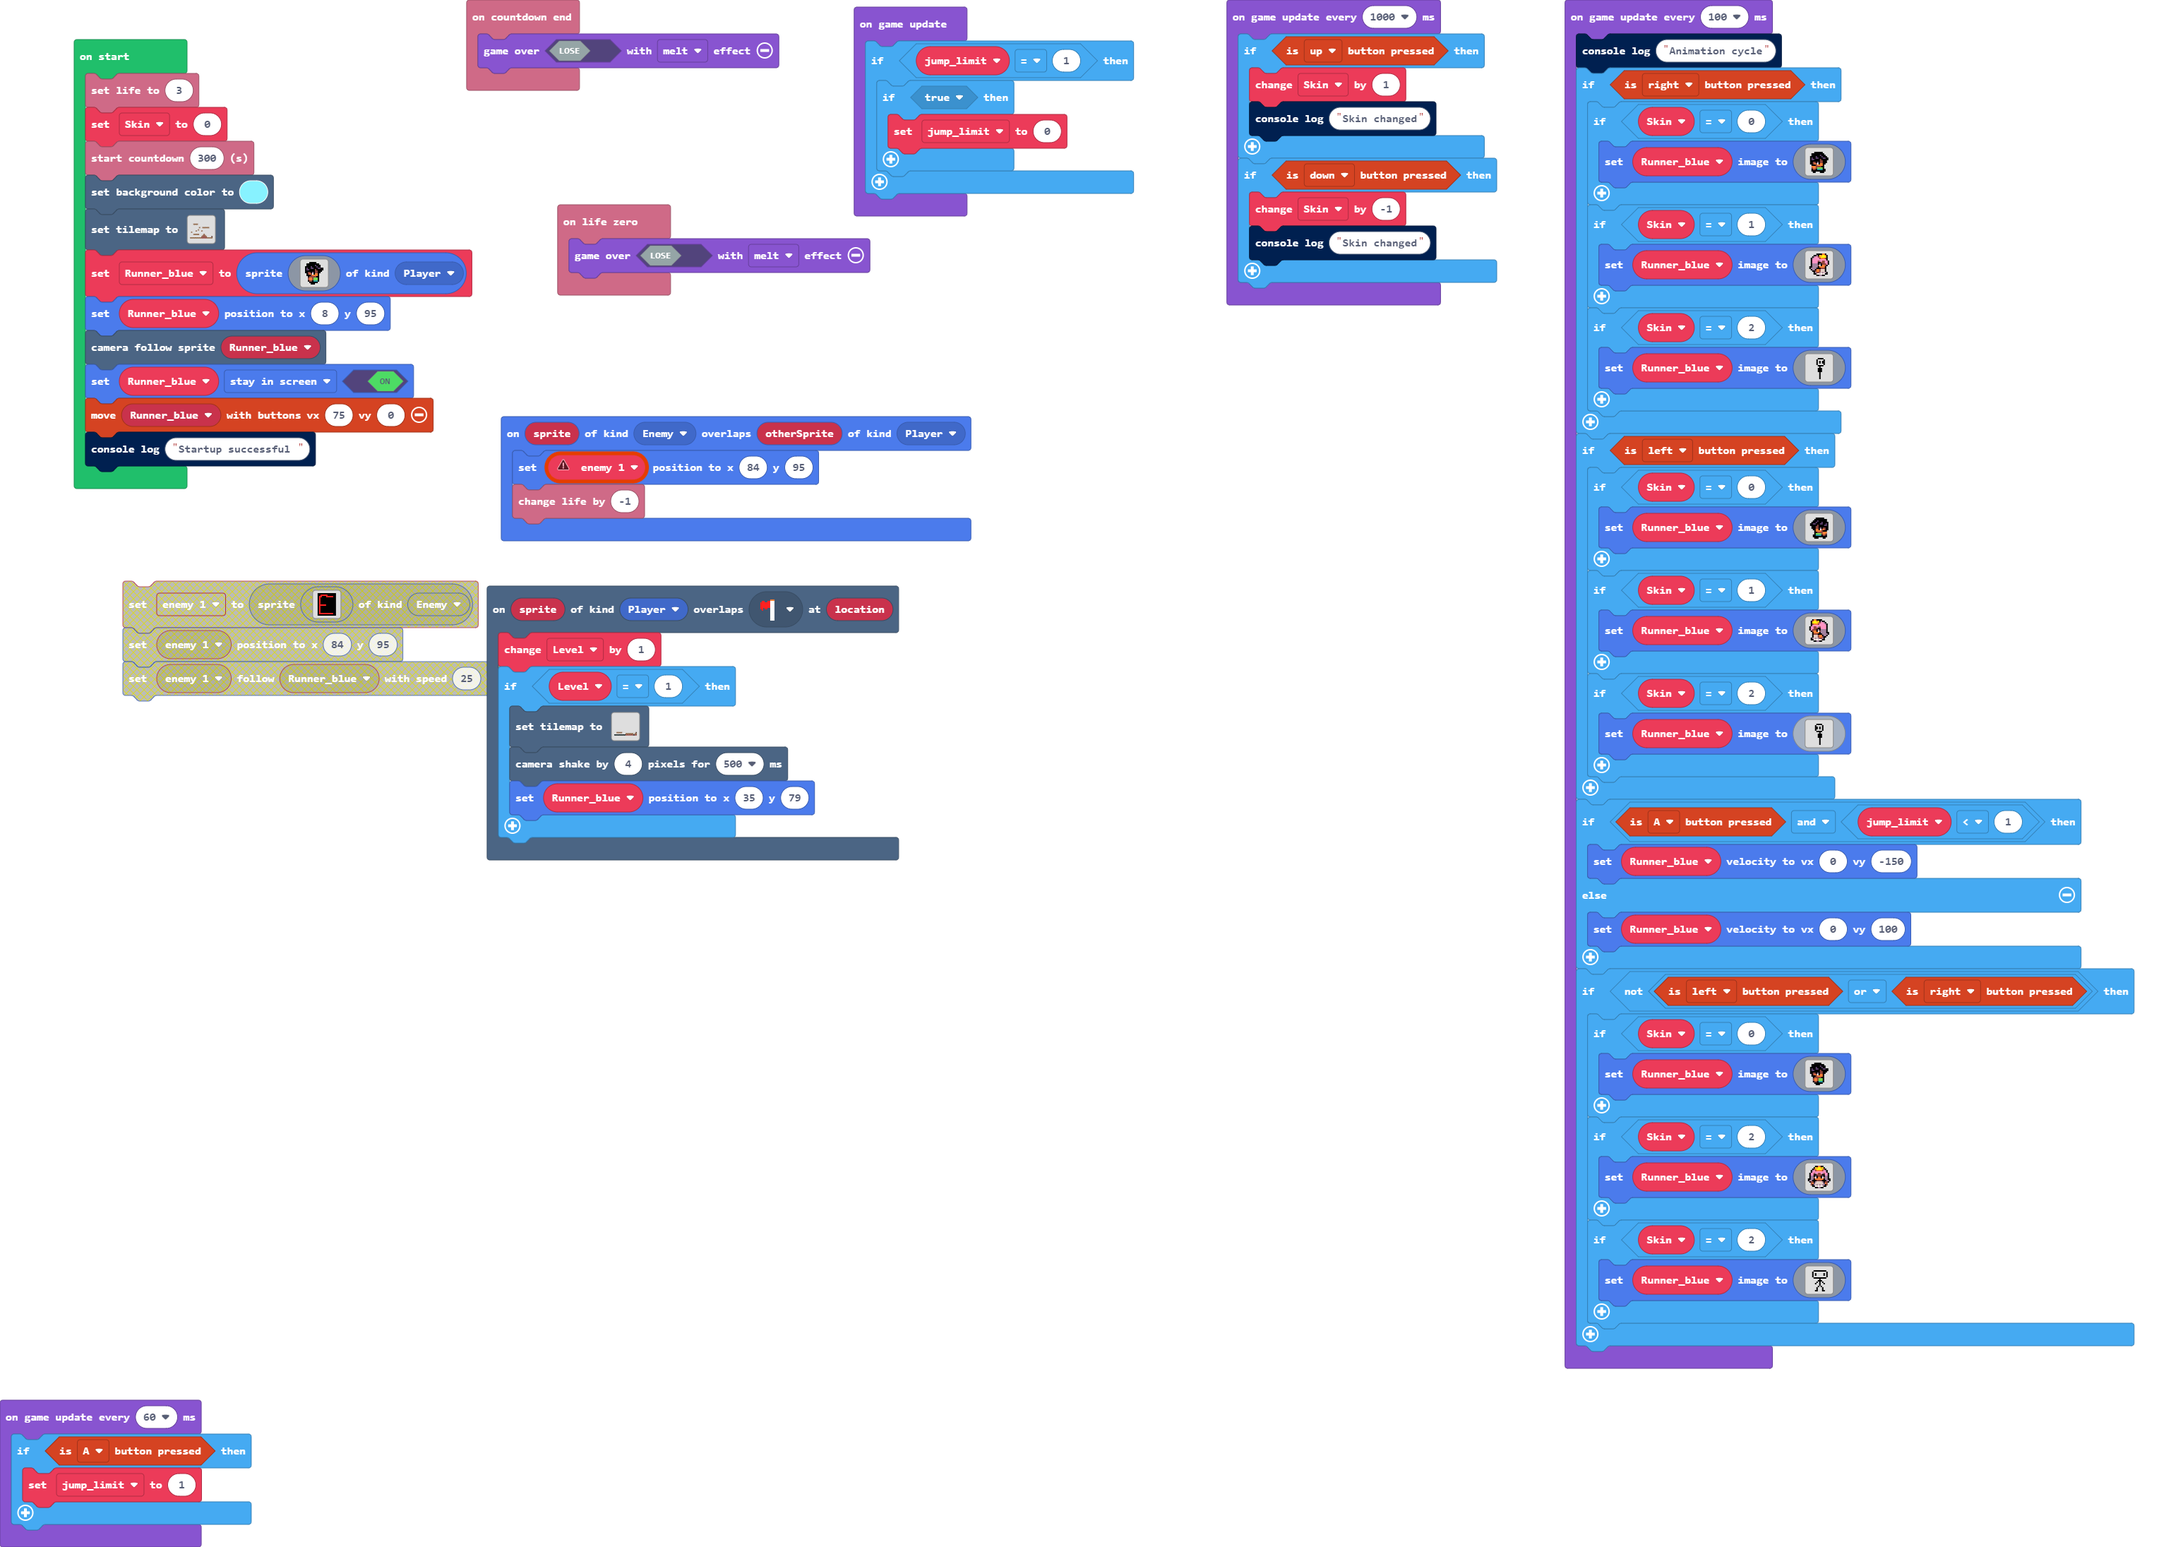
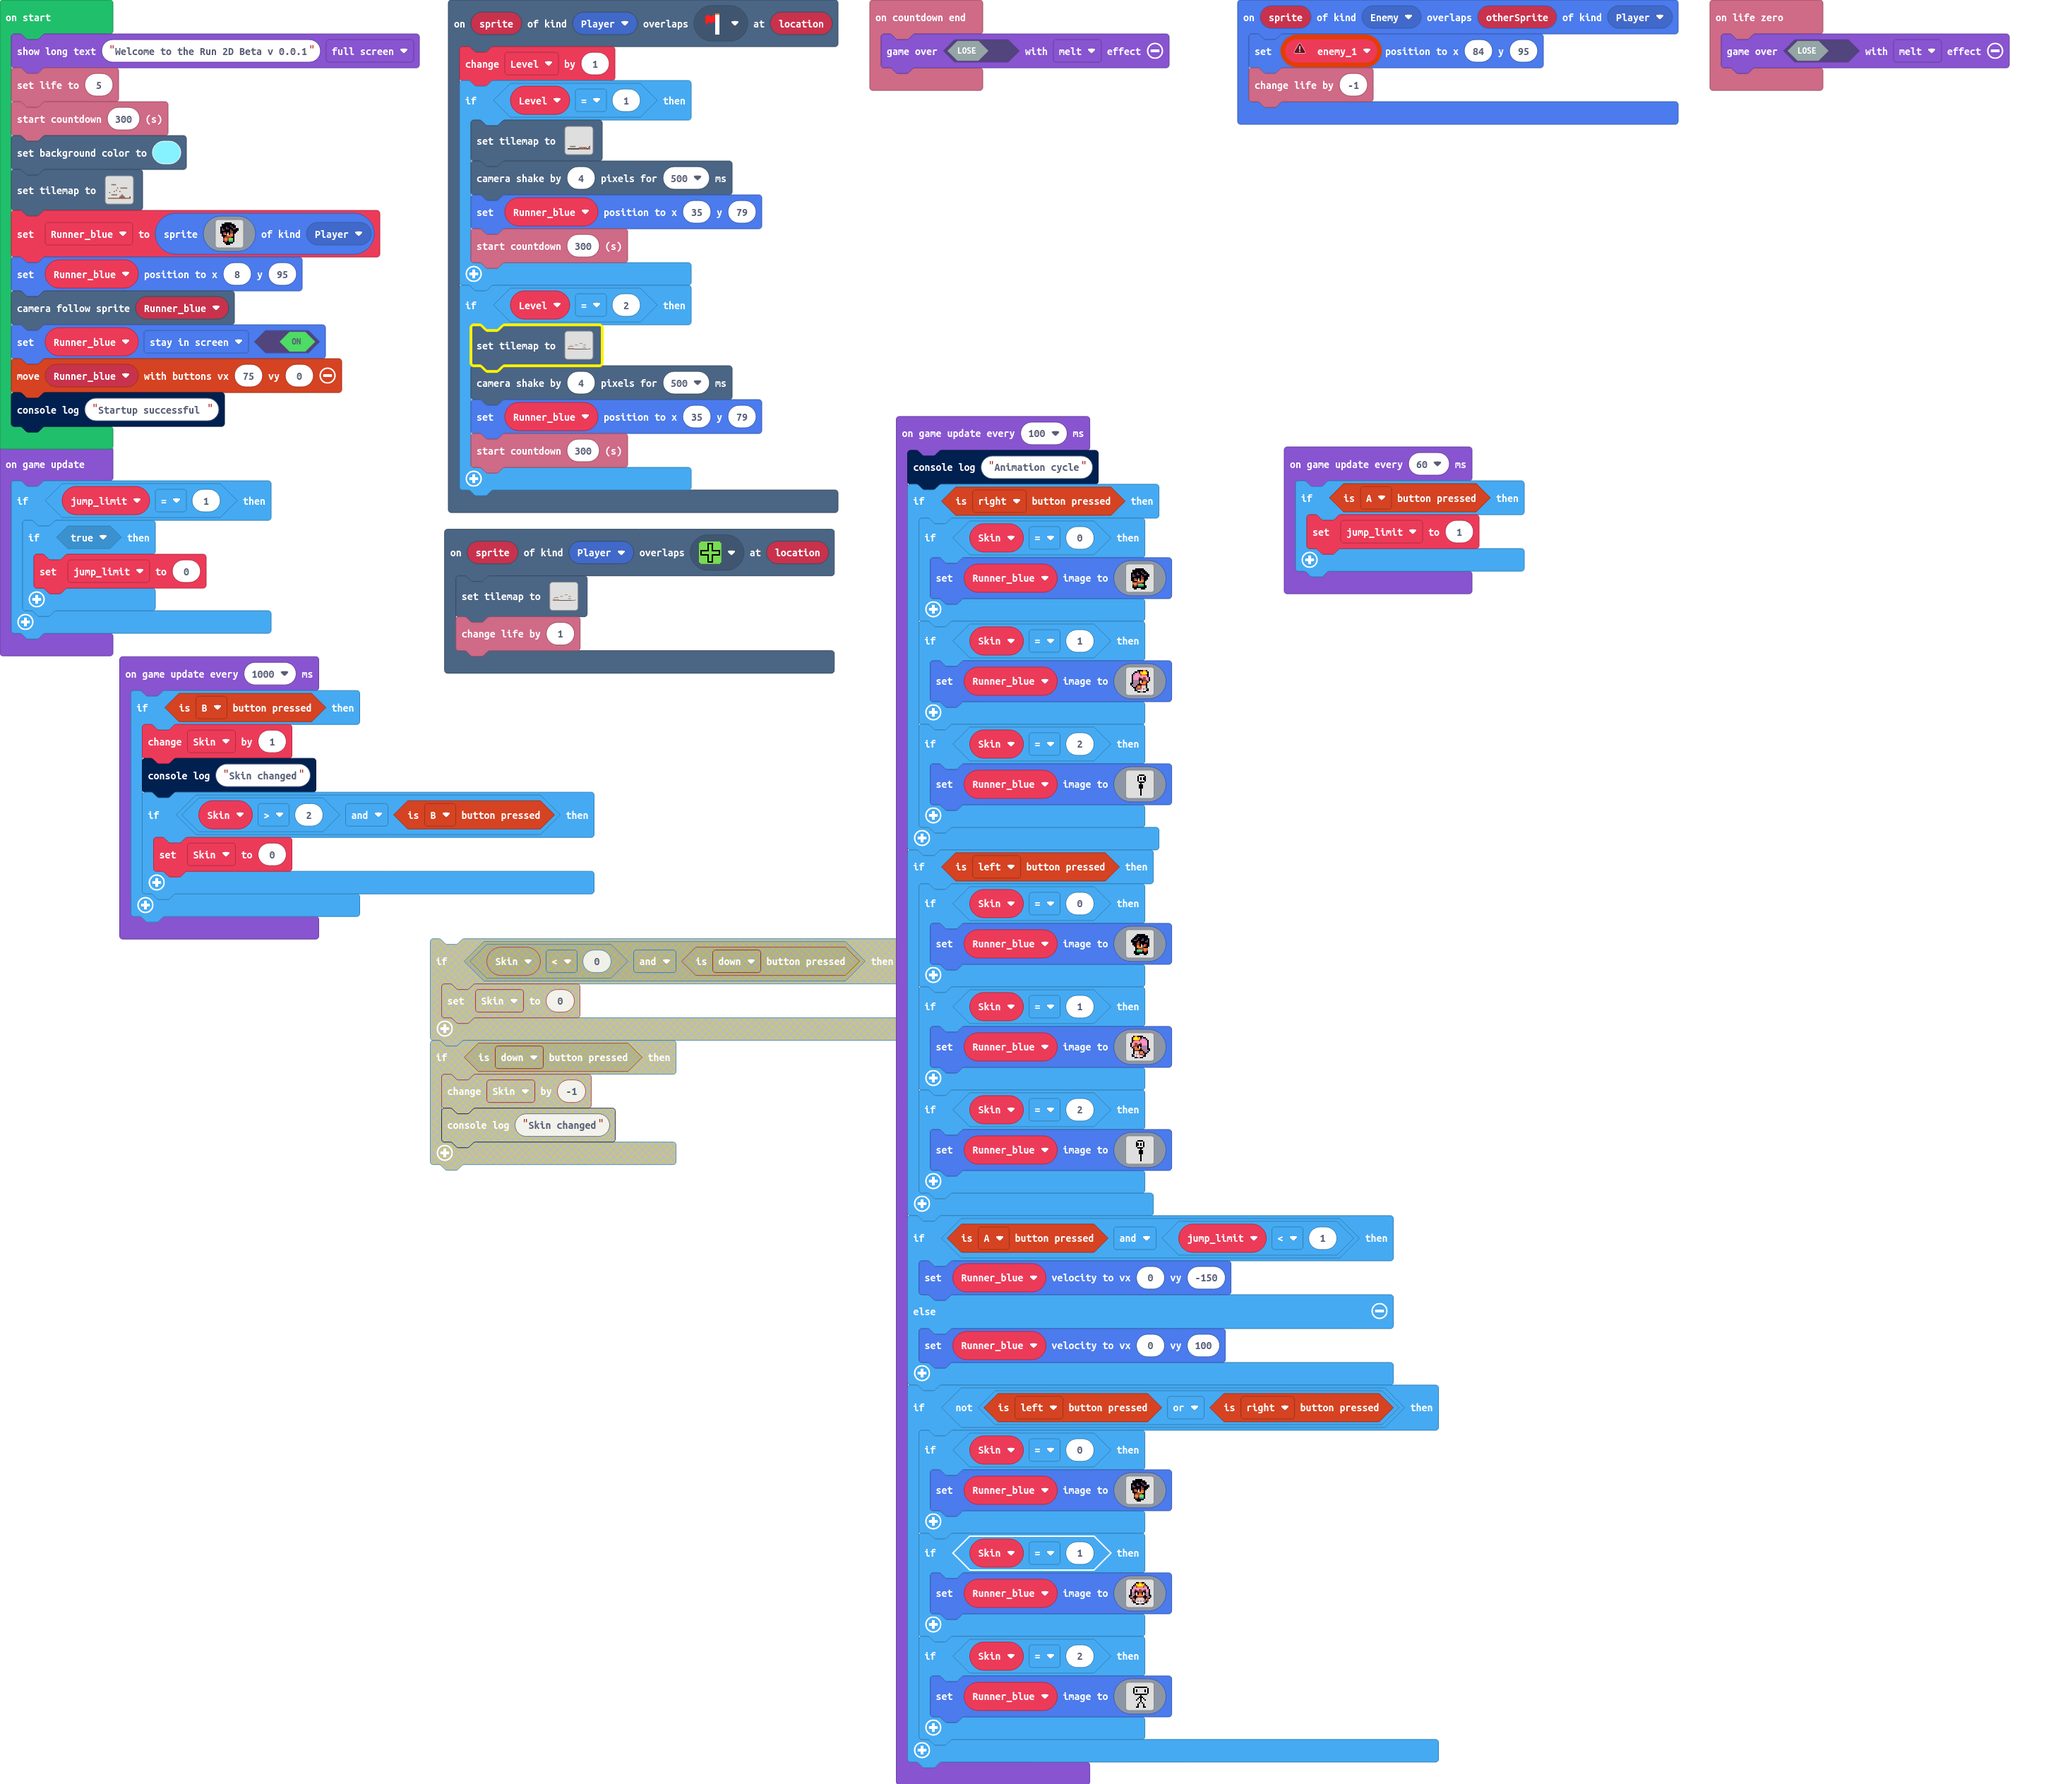
Update main.blocks, main.ts, tilemap.g.jres, tilemap.g.ts

diff --git a/main.ts b/main.ts
@@ -21,10 +21,55 @@ scene.onOverlapTile(SpriteKind.Player, myTiles.tile16, function (sprite, locatio
             `, [myTiles.transparency16,myTiles.tile4,myTiles.tile1,myTiles.tile2,myTiles.tile8,myTiles.tile3,myTiles.tile6,myTiles.tile9,myTiles.tile15,myTiles.tile16,myTiles.tile5,myTiles.tile7,myTiles.tile10,myTiles.tile11,myTiles.tile12,myTiles.tile13,myTiles.tile14], TileScale.Sixteen))
         scene.cameraShake(4, 500)
         Runner_blue.setPosition(35, 79)
+        info.startCountdown(300)
+    }
+    if (Level == 2) {
[1 lines of base64/hex data omitted]
+            . . . . . . . . . . . . . . . . . . . . . . . . . . . . 2 . . . . . . . . . . . 
+            . . . . . . . . . . . . . . . . . . . . . . . . . . . . 2 . . . . . . . . . . . 
+            . . . . . . . . . . . . . . . . . . . . . . . . . . . . 2 . . . . . . . . . . . 
+            . . . . . . . . . . . . . . . . . . . . . . . . . . . . 2 . . . . . . . . . . . 
+            . . . . . . . . . . . . . . . . . . . . . . . . . . . . 2 . . . . . . . . . . . 
+            . . . . . . . . . . . . . . . . . . . . . 2 2 2 2 2 . . 2 . . . . . . . . . . . 
+            . . . . . . . . . . . . . . . . . . . . . . . . . . . . 2 . . . . . . . . . . . 
+            . . . . . 2 . 2 . . . . . . . . . . . . . . . . . . . . 2 . . . . . . . . . . . 
+            . . . . . . . . . . . . . 2 2 2 2 2 . . . . . . . . . . 2 2 2 2 . . . . . . . . 
+            . . . . 2 2 2 2 2 . . . . . . . . . . . . . . . . . . . . . . . . . . . . . . . 
+            . . . 2 2 2 2 2 2 2 . . . . . . . . . . . . . . . . . . . . . . . . . . . . . . 
+            . . 2 . . . . . . . . . . . . . . . . . . . . . . . . . . . . . . . . . . . . . 
+            . 2 . . . . . . . . . . . . . . . . . . . . . . . . . 2 2 2 2 2 . . . . . . . . 
+            . . . . . . . . . . . . . . . . . . . . . . . . . . . . . . . . . . . . . . . . 
+            2 2 2 2 2 2 2 2 2 2 2 . . . . . . . . . . . . . . . . . . . . . . . . . . . . . 
+            2 2 2 2 2 2 2 2 2 2 2 . . . . . . . . . . . . . . . . . . . . . . . 2 2 2 2 2 2 
+            `, [myTiles.transparency16,myTiles.tile4,myTiles.tile1,myTiles.tile2,myTiles.tile8,myTiles.tile6,myTiles.tile9,myTiles.tile16,myTiles.tile5,myTiles.tile7,myTiles.tile12,myTiles.tile17,myTiles.tile18], TileScale.Sixteen))
+        scene.cameraShake(4, 500)
+        Runner_blue.setPosition(35, 79)
+        info.startCountdown(300)
     }
 })
 info.onCountdownEnd(function () {
     game.over(false, effects.melt)
+})
+scene.onOverlapTile(SpriteKind.Player, myTiles.tile17, function (sprite, location) {
[1 lines of base64/hex data omitted]
+        . . . . . . . . . . . . . . . . . . . . . . . . . . . . 2 . . . . . . . . . . . 
+        . . . . . . . . . . . . . . . . . . . . . . . . . . . . 2 . . . . . . . . . . . 
+        . . . . . . . . . . . . . . . . . . . . . . . . . . . . 2 . . . . . . . . . . . 
+        . . . . . . . . . . . . . . . . . . . . . . . . . . . . 2 . . . . . . . . . . . 
+        . . . . . . . . . . . . . . . . . . . . . . . . . . . . 2 . . . . . . . . . . . 
+        . . . . . . . . . . . . . . . . . . . . . 2 2 2 2 2 . . 2 . . . . . . . . . . . 
+        . . . . . . . . . . . . . . . . . . . . . . . . . . . . 2 . . . . . . . . . . . 
+        . . . . . 2 2 2 . . . . . . . . . . . . . . . . . . . . 2 . . . . . . . . . . . 
+        . . . . . . . . . . . . . 2 2 2 2 2 . . . . . . . . . . 2 2 2 2 . . . . . . . . 
+        . . . . 2 2 2 2 2 . . . . . . . . . . . . . . . . . . . . . . . . . . . . . . . 
+        . . . 2 2 2 2 2 2 2 . . . . . . . . . . . . . . . . . . . . . . . . . . . . . . 
+        . . 2 . . . . . . . . . . . . . . . . . . . . . . . . . . . . . . . . . . . . . 
+        . 2 . . . . . . . . . . . . . . . . . . . . . . . . . 2 2 2 2 2 . . . . . . . . 
+        . . . . . . . . . . . . . . . . . . . . . . . . . . . . . . . . . . . . . . . . 
+        2 2 2 2 2 2 2 2 2 2 2 . . . . . . . . . . . . . . . . . . . . . . . . . . . . . 
+        2 2 2 2 2 2 2 2 2 2 2 . . . . . . . . . . . . . . . . . . . . . . . 2 2 2 2 2 2 
+        `, [myTiles.transparency16,myTiles.tile4,myTiles.tile1,myTiles.tile2,myTiles.tile8,myTiles.tile6,myTiles.tile9,myTiles.tile16,myTiles.tile5,myTiles.tile7,myTiles.tile12,myTiles.tile18], TileScale.Sixteen))
+    info.changeLifeBy(1)
 })
 sprites.onOverlap(SpriteKind.Enemy, SpriteKind.Player, function (sprite, otherSprite) {
     let enemy_1: Sprite = null
@@ -34,11 +79,12 @@ sprites.onOverlap(SpriteKind.Enemy, SpriteKind.Player, function (sprite, otherSp
 info.onLifeZero(function () {
     game.over(false, effects.melt)
 })
+let Skin = 0
 let jump_limit = 0
 let Level = 0
 let Runner_blue: Sprite = null
-info.setLife(3)
-let Skin = 0
+game.showLongText("Welcome to the Run 2D Beta v 0.0.1", DialogLayout.Full)
+info.setLife(5)
 info.startCountdown(300)
 scene.setBackgroundColor(9)
 tiles.setTilemap(tiles.createTilemap(hex`140010000000000000000000000000000000000000000000000000000000000000000000000000000000000000000000000000000000000000000000000000000000000401010300000000000000000000000000000000000000000000000000000000000000000000000000000000000000000000000000000000000000000000000000020000040101010103000000000000000000000000000000000000000000000000000000000000020000000000000000000000000000000000020000000002000000000000000000000200000000000000000000000000000000000000000000000000000000000000000000000000000000000401010103000000000800000000000000000000000000000000000005060700000000000000000000000000000000050606060700000000090101010101010101010106060606060101010101`, img`
@@ -90,13 +136,12 @@ game.onUpdate(function () {
     }
 })
 game.onUpdateInterval(1000, function () {
-    if (controller.up.isPressed()) {
+    if (controller.B.isPressed()) {
         Skin += 1
         console.log("Skin changed")
-    }
-    if (controller.down.isPressed()) {
-        Skin += -1
-        console.log("Skin changed")
+        if (Skin > 2 && controller.B.isPressed()) {
+            Skin = 0
+        }
     }
 })
 game.onUpdateInterval(100, function () {
@@ -251,7 +296,7 @@ game.onUpdateInterval(100, function () {
                 . . . . f f f . . . . . . 
                 `)
         }
-        if (Skin == 2) {
+        if (Skin == 1) {
             Runner_blue.setImage(img`
                 . . . . . f f 4 4 f f . . . . . 
                 . . . . f 5 4 5 5 4 5 f . . . . 

diff --git a/tilemap.g.ts b/tilemap.g.ts
@@ -34,6 +34,10 @@ namespace myTiles {
     export const tile15 = image.ofBuffer(hex``);
     //% fixedInstance jres blockIdentity=images._tile
     export const tile16 = image.ofBuffer(hex``);
+    //% fixedInstance jres blockIdentity=images._tile
+    export const tile17 = image.ofBuffer(hex``);
+    //% fixedInstance jres blockIdentity=images._tile
+    export const tile18 = image.ofBuffer(hex``);
 
 }
 // Auto-generated code. Do not edit.
